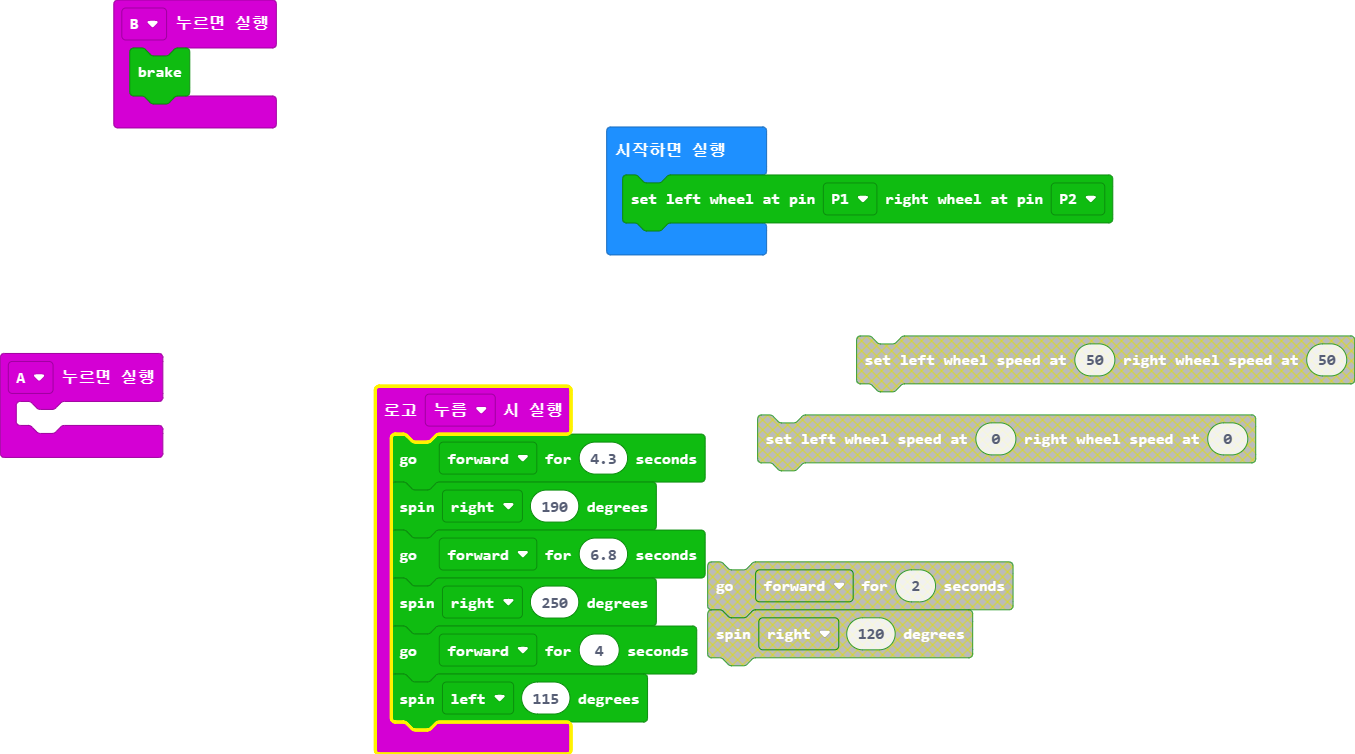
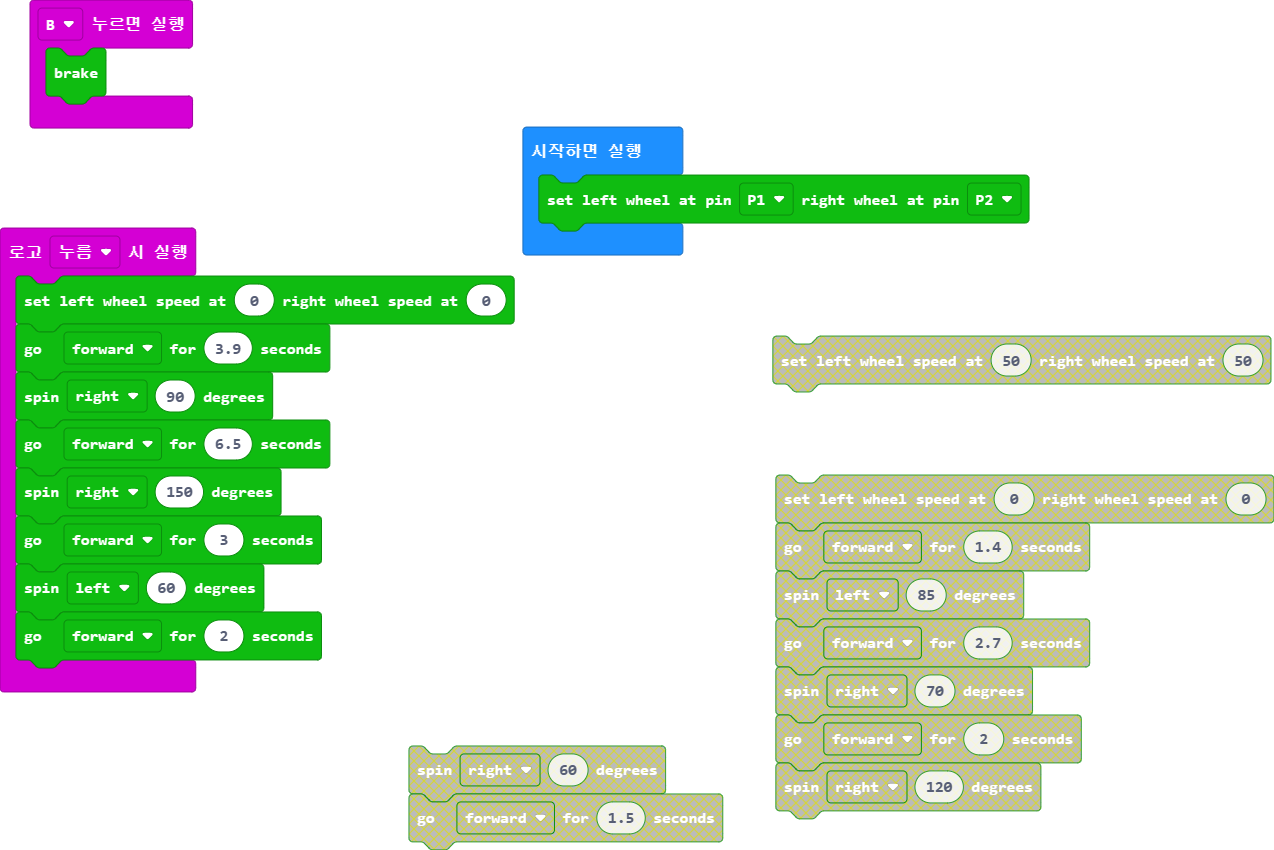
main.blocks, main.ts 업데이트하기

diff --git a/main.ts b/main.ts
@@ -1,13 +1,12 @@
 input.onLogoEvent(TouchButtonEvent.Pressed, function () {
-    RingbitCar.running_time(RingbitCar.Direction_run.forward, 4.3)
-    RingbitCar.steering_angle(RingbitCar.Direction_turn.right, 190)
-    RingbitCar.running_time(RingbitCar.Direction_run.forward, 6.8)
-    RingbitCar.steering_angle(RingbitCar.Direction_turn.right, 250)
-    RingbitCar.running_time(RingbitCar.Direction_run.forward, 4)
-    RingbitCar.steering_angle(RingbitCar.Direction_turn.left, 115)
-})
-input.onButtonPressed(Button.A, function () {
-	
+    RingbitCar.freestyle(0, 0)
+    RingbitCar.running_time(RingbitCar.Direction_run.forward, 3.9)
+    RingbitCar.steering_angle(RingbitCar.Direction_turn.right, 90)
+    RingbitCar.running_time(RingbitCar.Direction_run.forward, 6.5)
+    RingbitCar.steering_angle(RingbitCar.Direction_turn.right, 150)
+    RingbitCar.running_time(RingbitCar.Direction_run.forward, 3)
+    RingbitCar.steering_angle(RingbitCar.Direction_turn.left, 60)
+    RingbitCar.running_time(RingbitCar.Direction_run.forward, 2)
 })
 input.onButtonPressed(Button.B, function () {
     RingbitCar.brake()
